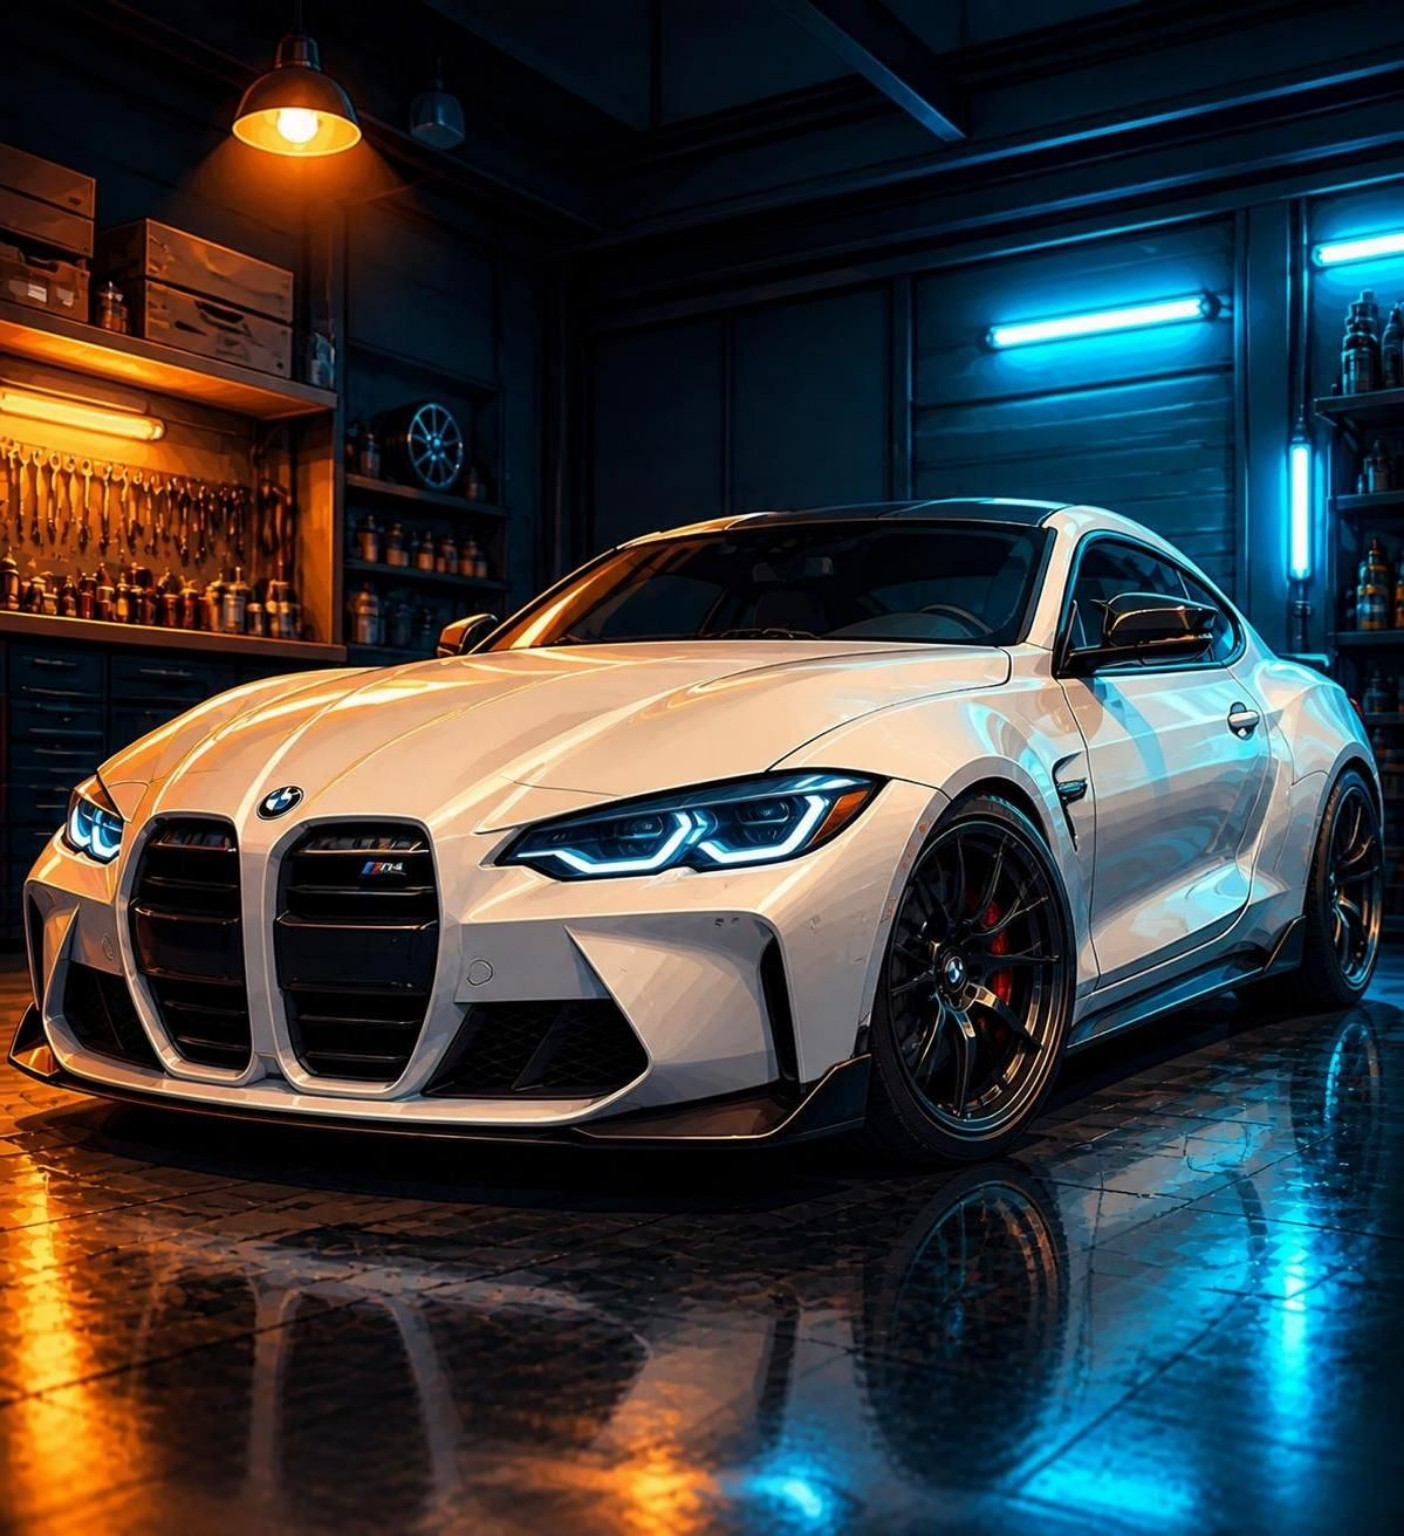
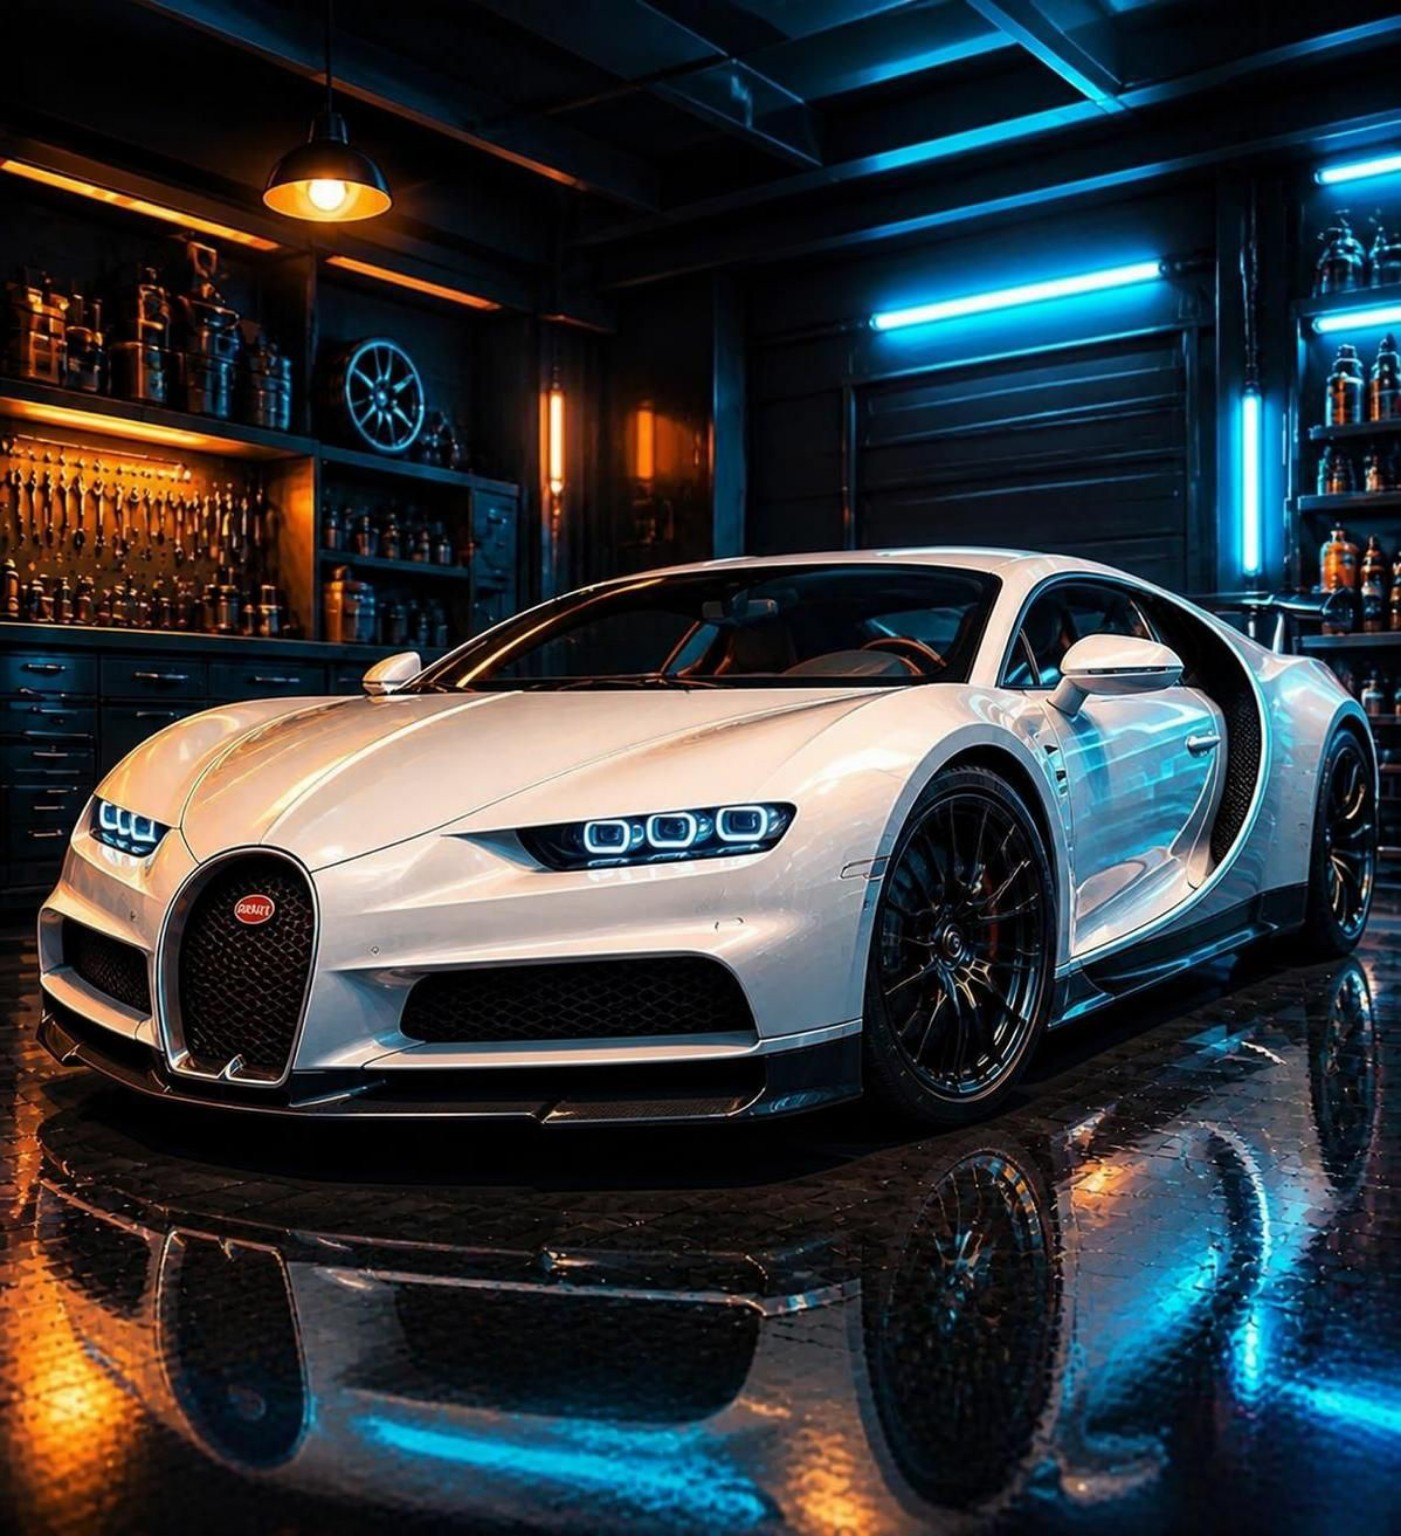
Hajop

diff --git a/bot.py b/bot.py
@@ -264,7 +264,7 @@ ME_WORD = "خودم"  # تو گروه این کلمه رو بنویسی کارا
 CHAR_PHOTOS: dict[tuple[str, int], str] = {}
 
 
-BOT_VERSION = "گاراژ: عکس همیشگی ماشین + رنگ سفید پیشفرض + جدول قطعات و درآمد"
+BOT_VERSION = "گاراژ: عکسهای جدید ماشینها + جدول گاراژ شبیه جدول شغلها"
 
 
 def norm_word(text: str) -> str:
@@ -3171,20 +3171,17 @@ def _vw(s: str) -> int:
 
 
 def mono_table(headers, rows) -> str:
-    """جدول با کادر، داخل <pre> (تلگرام جدول واقعی نداره). \u200e اول هر خط باعث میشه ستونها وسط فارسی بهم نریزن."""
+    """جدول مونواسپیس داخل <pre> دقیقاً به سبک جدول شغلها: سطر عنوان، خط ─┼─، بدون کادر بیرونی."""
     cols = len(headers)
-    widths = [max(_vw(x) for x in [headers[i]] + [r[i] for r in rows]) for i in range(cols)]
-
-    def line(l, m, r):
-        return l + m.join("─" * (w + 2) for w in widths) + r
-
-    def row(cells):
-        return "│" + "│".join(" " + str(c) + " " * (widths[i] - _vw(c)) + " " for i, c in enumerate(cells)) + "│"
-
-    out = [line("┌", "┬", "┐"), row(headers), line("├", "┼", "┤")]
-    out += [row(r) for r in rows]
-    out.append(line("└", "┴", "┘"))
-    return "<pre>" + html.escape("\n".join("\u200e" + l for l in out)) + "</pre>"
+    cells = [tuple(str(x) for x in headers)] + [tuple(str(x) for x in r) for r in rows]
+    widths = [max(_vw(r[i]) for r in cells) for i in range(cols)]
+    sep = "─┼─".join("─" * w for w in widths)
+    lines = []
+    for k, r in enumerate(cells):
+        lines.append(" │ ".join(r[i] + " " * max(widths[i] - _vw(r[i]), 0) for i in range(cols)))
+        if k == 0:
+            lines.append(sep)
+    return "<pre>" + html.escape("\n".join("\u200e" + l for l in lines)) + "</pre>"
 
 
 def _bar(lv: int) -> str:
@@ -3220,7 +3217,7 @@ def _find_car_file(idx: int):
     return None
 
 
-def _recolor_white_car(img: Image.Image, rgb: tuple) -> Image.Image:
+def _recolor_white_car_legacy(img: Image.Image, rgb: tuple) -> Image.Image:
     """بدنهی سفید ماشین رو به رنگ دلخواه درمیاره؛ سایهروشنها حفظ میشن، شیشه/لاستیک/پسزمینهی بیرونی دستنخورده میمونن."""
     im = img.convert("RGB")
     if im.width > _CAR_IMG_MAX_W:
@@ -3253,6 +3250,72 @@ def _recolor_white_car(img: Image.Image, rgb: tuple) -> Image.Image:
     return Image.composite(colored, im, body)
 
 
+# ───── رنگدهی عکسهای گاراژ (بدنهی سفید با انعکاس نارنجی/آبی) ─────
+# برای هر ماشین چند نقطهی مطمئنِ روی بدنه (کسری از عرض/ارتفاع) و کادری که بدنه توش قرار داره.
+_CAR_SEEDS = {
+    "pride":       ([(0.25, 0.43), (0.72, 0.50), (0.50, 0.33), (0.60, 0.56)], 0.27),
+    "supra":       ([(0.28, 0.50), (0.50, 0.38), (0.80, 0.53), (0.55, 0.45)], 0.31),
+    "bmw":         ([(0.35, 0.46), (0.60, 0.44), (0.80, 0.55), (0.20, 0.62)], 0.31),
+    "lamborghini": ([(0.30, 0.52), (0.50, 0.45), (0.75, 0.50), (0.62, 0.40)], 0.34),
+    "bugatti":     ([(0.35, 0.50), (0.55, 0.42), (0.80, 0.56), (0.20, 0.58)], 0.34),
+}
+_CAR_BODY_YMAX = 0.75
+
+
+def _car_body_mask(im: Image.Image, stem: str):
+    """ماسک بدنه: نقاط روشن و کمرنگ که به نقطههای مطمئن بدنه وصلاند (کف، دیوار و چراغها جدا میمونن)."""
+    seeds, ymin = _CAR_SEEDS[stem]
+    W = 640
+    sm = im.resize((W, max(1, int(im.height * W / im.width))), Image.LANCZOS)
+    _h, sat, val = sm.convert("HSV").split()
+    cand = ImageChops.multiply(sat.point(lambda x: 255 if x < 185 else 0), val.point(lambda x: 255 if x > 95 else 0))
+    cand = cand.filter(ImageFilter.MaxFilter(9)).filter(ImageFilter.MinFilter(9))
+    m = cand.point(lambda x: 255 if x > 127 else 0)
+    w, h = m.size
+    clip = Image.new("L", (w, h), 0)
+    ImageDraw.Draw(clip).rectangle([int(0.01 * w), int(ymin * h), int(0.98 * w), int(_CAR_BODY_YMAX * h)], fill=255)
+    m = ImageChops.multiply(m, clip)
+    for fx, fy in seeds:
+        x, y = int(fx * w), int(fy * h)
+        found = None
+        for r in range(0, 30, 2):
+            for dx in (-r, 0, r):
+                for dy in (-r, 0, r):
+                    xx, yy = min(w - 1, max(0, x + dx)), min(h - 1, max(0, y + dy))
+                    if m.getpixel((xx, yy)) == 255:
+                        found = (xx, yy)
+                        break
+                if found:
+                    break
+            if found:
+                break
+        if found:
+            ImageDraw.floodfill(m, found, 128)
+    return m.point(lambda x: 255 if x == 128 else 0)
+
+
+def _recolor_white_car(img: Image.Image, rgb: tuple, stem: str = "") -> Image.Image:
+    """بدنهی سفید رو به رنگ دلخواه درمیاره؛ سایهروشنها، شیشهها، چرخها و گاراژ دستنخورده میمونن."""
+    im = img.convert("RGB")
+    if im.width > _CAR_IMG_MAX_W:
+        im = im.resize((_CAR_IMG_MAX_W, int(im.height * _CAR_IMG_MAX_W / im.width)), Image.LANCZOS)
+    if sum(rgb) >= 700:  # سفید = عکس اصلی
+        return im
+    if stem not in _CAR_SEEDS:
+        return _recolor_white_car_legacy(img, rgb)
+    body = _car_body_mask(im, stem)
+    if body.histogram()[255] < 0.02 * body.width * body.height:  # تشخیص بدنه خراب شد
+        return _recolor_white_car_legacy(img, rgb)
+    body = body.resize(im.size, Image.BILINEAR).filter(ImageFilter.GaussianBlur(1.5))
+    gray = im.convert("L")
+
+    def ch(t):
+        return gray.point(lambda x: min(255, int(t * (0.30 + 0.70 * x / 255) + 255 * max(0.0, x / 255 - 0.86) * 0.9)))
+
+    colored = Image.merge("RGB", tuple(ch(t) for t in rgb))
+    return Image.composite(colored, im, body)
+
+
 def car_image_bytes(idx: int, color: int) -> bytes:
     key = (idx, color)
     if key not in _CAR_IMG_CACHE:
@@ -3262,7 +3325,7 @@ def car_image_bytes(idx: int, color: int) -> bytes:
         if f is not None:
             try:
                 with Image.open(f) as im:
-                    out = _recolor_white_car(im, rgb)
+                    out = _recolor_white_car(im, rgb, Path(CAR_IMAGE_FILES[idx]).stem)
                     buf = BytesIO()
                     out.save(buf, format="JPEG", quality=88, optimize=True)
                     data = buf.getvalue()
@@ -3316,6 +3379,71 @@ def garage_main(uid: int, balance: int, owned: dict):
     if not owned:
         lines += ["", "برای شروع باید اولین ماشین را بخری."]
     return B("\n".join(lines)), InlineKeyboardMarkup(rows)
+
+GARAGE_NEED_PREV = "ابتدا ماشین قبلی"
+
+
+def garage_rows(owned: dict):
+    """[(ایموجی، اسم، قیمت، درآمد ساعتی، وضعیت: 'own' | 'buy' | 'lock')]"""
+    next_idx = next((i for i in range(len(CARS)) if i not in owned), len(CARS))
+    rows = []
+    for i, (name, _en, emo, price, base) in enumerate(CARS):
+        if i in owned:
+            rows.append((emo, name, "—", fmt_short(car_profit(i, owned[i])), "own"))
+        elif i == next_idx:
+            rows.append((emo, name, fmt_short(price), fmt_short(base), "buy"))
+        else:
+            rows.append((emo, name, fmt_short(price), fmt_short(base), "lock"))
+    return rows
+
+
+def garage_rich_html(balance: int, owned: dict) -> str:
+    """جدول واقعی تلگرام (Rich Message) مثل جدول شغلها: قفل باز برای ماشینهایی که داری، قفل بسته برای بقیه."""
+    out = ["<table><tr><th>ماشین</th><th>قیمت</th><th>درآمد ساعتی</th><th>وضعیت</th></tr>"]
+    for emo, name, price, income, st in garage_rows(owned):
+        if st == "own":
+            status = f"{lock_open()} داری"
+        elif st == "buy":
+            status = "🛒 قابل خرید"
+        else:
+            status = f"{lock_closed()} {GARAGE_NEED_PREV}"
+        out.append(f"<tr><td>{emo} {html.escape(name)}</td><td>{price}</td><td>{income}</td><td>{status}</td></tr>")
+    out.append("</table>")
+    out.append(f"<p>{ce('wallet', 1, '💰')} دارایی شما: {balance:,} تومن</p>")
+    return "".join(out)
+
+
+def garage_pre_text(balance: int, owned: dict) -> str:
+    """نسخهی جایگزین: جدول مونواسپیس (اگه Rich Message کار نکرد)."""
+    rows = []
+    for emo, name, price, income, st in garage_rows(owned):
+        status = "داری ✅" if st == "own" else ("قابل خرید 🛒" if st == "buy" else "قفل 🔒")
+        rows.append((f"{emo} {name}", price, income, status))
+    table = mono_table(("ماشین", "قیمت", "درآمد ساعتی", "وضعیت"), rows)
+    return f"<b>🚗 گاراژ ماشینها</b>\n{table}\n" + B(f"{ce('wallet', 1, '💰')} دارایی شما: {balance:,} تومن")
+
+
+async def send_garage_list(bot, chat_id: int, uid: int, reply_to: int | None = None):
+    """لیست گاراژ: اول جدول واقعی تلگرام، زیرش پیام دکمهها؛ اگه جدول واقعی نشد، جدول مونواسپیس + دکمهها تو یه پیام."""
+    owned = await _owned_cars(uid)
+    row = await get_user(uid)
+    bal = row["balance"] if row else 0
+    _t, kb = garage_main(uid, bal, owned)
+    rp = ReplyParameters(message_id=reply_to, allow_sending_without_reply=True) if reply_to else None
+    rich_ok = False
+    try:
+        payload = {"chat_id": chat_id, "rich_message": {"html": garage_rich_html(bal, owned)}}
+        if rp:
+            payload["reply_parameters"] = rp.to_dict()
+        await bot._post("sendRichMessage", payload)
+        rich_ok = True
+    except Exception:
+        log.warning("garage sendRichMessage failed, using <pre> table", exc_info=True)
+    if rich_ok:
+        await send_html(bot, chat_id, B("🚗 برای دیدن یا خرید، یکی از ماشینها رو انتخاب کن 👇"), reply_markup=kb)
+        return
+    await send_html(bot, chat_id, garage_pre_text(bal, owned), reply_markup=kb, reply_parameters=rp)
+
 
 def garage_car(uid: int, idx: int, color: int, owned_row, balance: int):
     name, _en, emo, price, base = CARS[idx]
@@ -3400,10 +3528,7 @@ async def show_garage(update: Update, context: ContextTypes.DEFAULT_TYPE):
         idx = max(owned.keys())
         await _send_car_panel(msg.chat_id, context, user.id, idx)
         return
-    row = await get_user(user.id)
-    text, kb = garage_main(user.id, row["balance"], owned)
-    rp = ReplyParameters(message_id=msg.message_id, allow_sending_without_reply=True)
-    await msg.reply_text(text, parse_mode="HTML", reply_markup=kb, reply_parameters=rp)
+    await send_garage_list(context.bot, msg.chat_id, user.id, msg.message_id)
 
 async def _garage_show_car(q, context, uid: int, idx: int, color: int = 0):
     owned = await _owned_cars(uid)
@@ -3463,13 +3588,9 @@ async def car_cb(update: Update, context: ContextTypes.DEFAULT_TYPE):
         await _garage_show_car(q, context, uid, idx)
     elif act == "garage":
         await q.answer()
-        owned = await _owned_cars(uid); user = await get_user(uid)
-        text, kb = garage_main(uid, user["balance"], owned)
-        try: await q.edit_message_caption(caption=text, parse_mode="HTML", reply_markup=kb)
-        except Exception:
-            try: await q.message.delete()
-            except Exception: pass
-            await context.bot.send_message(q.message.chat_id, text=text, parse_mode="HTML", reply_markup=kb)
+        try: await q.message.delete()
+        except Exception: pass
+        await send_garage_list(context.bot, q.message.chat_id, uid)
     elif act == "buy":
         price = CARS[idx][3]
         owned = await _owned_cars(uid)
